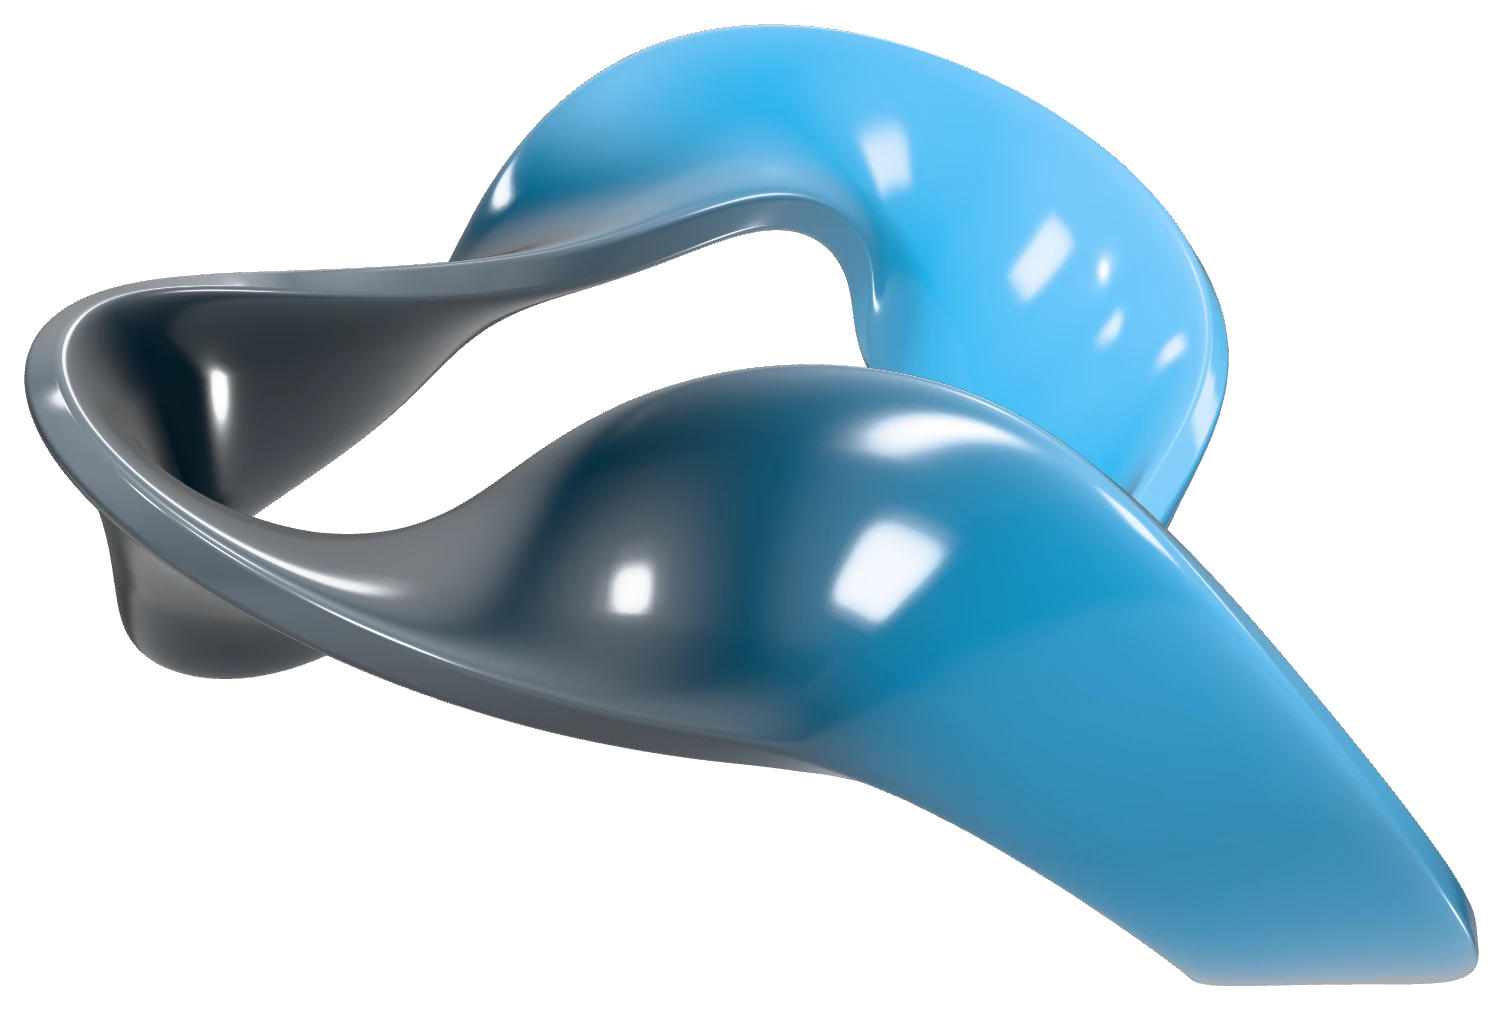
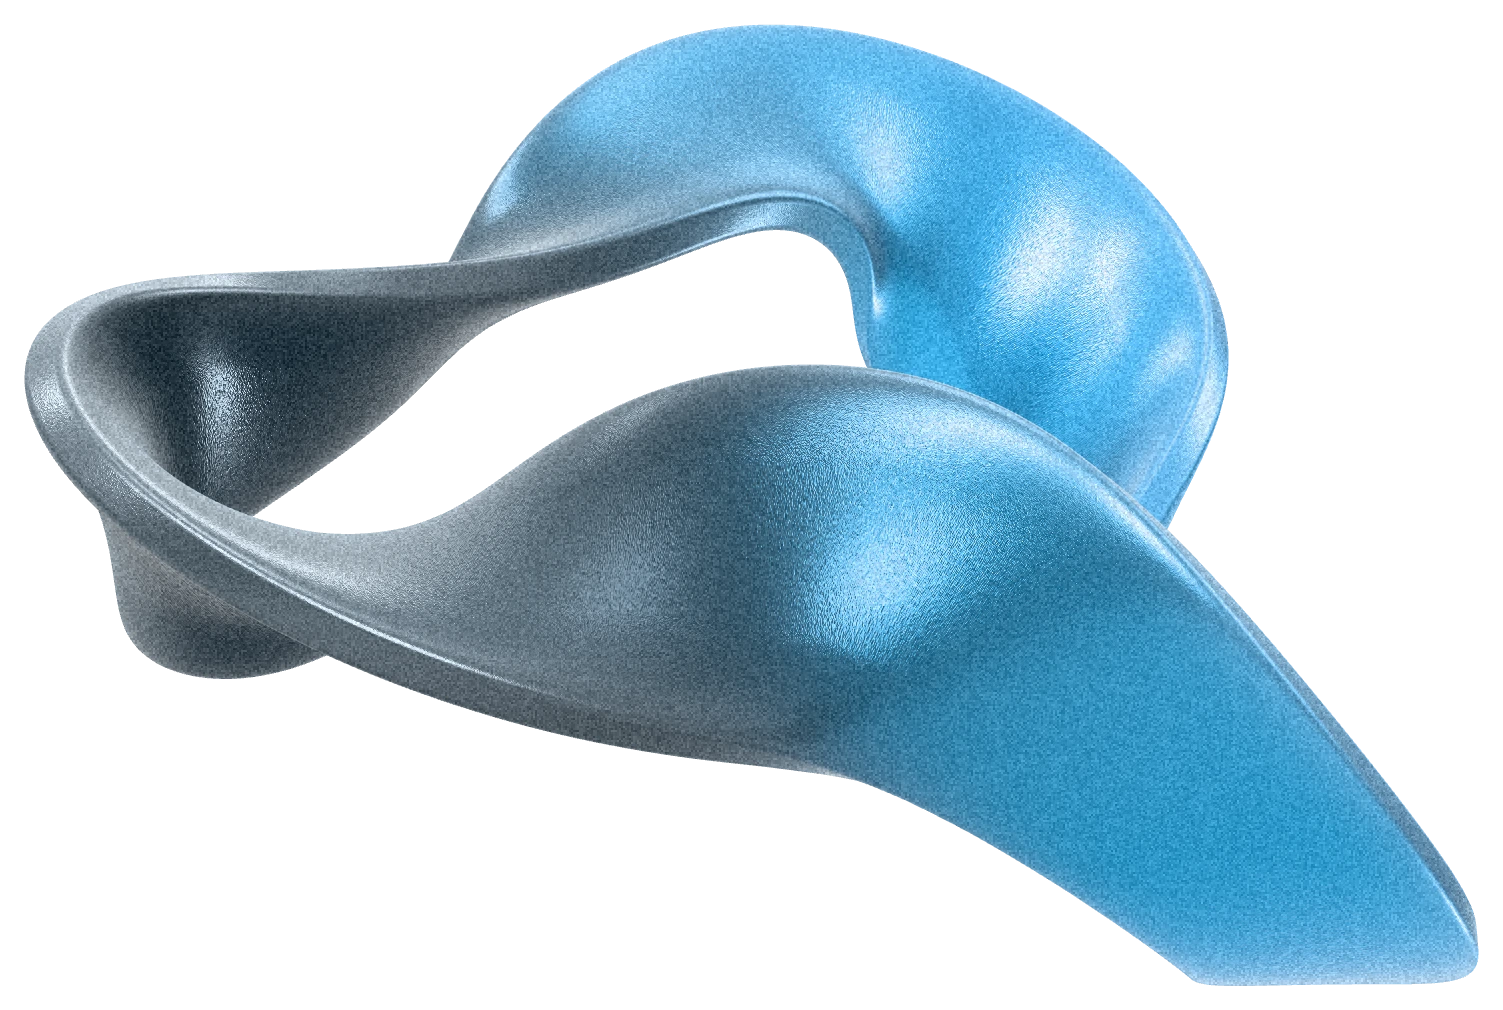
3D ribbons: satin metallic finish with grain instead of gloss
- New default finish in scripts/air-ribbon/render.html: metalness 0.75,
  roughness 0.32, speckle roughness/bump map, 2px film grain on the
  object only; 'finish=gloss' keeps the original look
- Re-rendered hero and closing images (same colours, angles and size)
- Serve the ribbons at quality 90 so compression keeps the grain
- Rename the key-light URL param to 'keylight'

Changed region(s): [[0.0, 0.0307, 1.0, 0.9822], [0.4285, 0.2455, 0.4591, 0.2762]]

diff --git a/scripts/air-ribbon/render.html b/scripts/air-ribbon/render.html
@@ -45,7 +45,7 @@ const pmrem = new THREE.PMREMGenerator(renderer);
 scene.environment = pmrem.fromScene(new RoomEnvironment(), 0.03).texture;
 scene.environmentIntensity = P("env", 1.0);
 
-const key = new THREE.DirectionalLight(0xffffff, P("key", 1.6));
+const key = new THREE.DirectionalLight(0xffffff, P("keylight", 1.6));
 key.position.set(-3, 5, 4);
 scene.add(key);
 const rim = new THREE.DirectionalLight(0xffffff, P("rim", 0.8));
@@ -54,7 +54,7 @@ scene.add(rim);
 
 // Sweep a rounded-rectangle cross-section along a closed curve with a twist.
 function sweep({ curve, twist, width, thick, nu = 900, nv = 72, colorAt }) {
-  const pos = [], col = [], idx = [];
+  const pos = [], col = [], idx = [], uvs = [];
   const T = new THREE.Vector3(), N = new THREE.Vector3(), B = new THREE.Vector3();
   const up = new THREE.Vector3(0, 0, 1);
   const se = (a, n) => Math.sign(a) * Math.pow(Math.abs(a), n);
@@ -80,6 +80,7 @@ function sweep({ curve, twist, width, thick, nu = 900, nv = 72, colorAt }) {
       const edge = Math.abs(Math.cos(v));
       const cc = c.clone().lerp(PEARL, 0.12 * edge * edge);
       col.push(cc.r, cc.g, cc.b);
+      uvs.push(i / nu, j / nv);
     }
   }
   for (let i = 0; i < nu; i++)
@@ -90,6 +91,7 @@ function sweep({ curve, twist, width, thick, nu = 900, nv = 72, colorAt }) {
   const g = new THREE.BufferGeometry();
   g.setAttribute("position", new THREE.Float32BufferAttribute(pos, 3));
   g.setAttribute("color", new THREE.Float32BufferAttribute(col, 3));
+  g.setAttribute("uv", new THREE.Float32BufferAttribute(uvs, 2));
   g.setIndex(idx);
   g.computeVertexNormals();
   return g;
@@ -101,18 +103,58 @@ const grad = (u, phase = 0) => {
   return NAVY.clone().lerp(SKY, s);
 };
 
-const mat = new THREE.MeshPhysicalMaterial({
-  vertexColors: true,
-  roughness: P("rough", 0.22),
-  metalness: 0.0,
-  clearcoat: 1.0,
-  clearcoatRoughness: P("ccr", 0.06),
-  iridescence: P("irid", 0.25),
-  iridescenceIOR: 1.4,
-  sheen: P("sheen", 0.0),
-  sheenColor: new THREE.Color("#cfeaff"),
-  side: THREE.DoubleSide,
-});
+// Fine surface grain (sand-blasted metal): random speckle used as a
+// roughness and bump map. Repeats more along the loop than around the
+// profile so the grain stays roughly square on the surface.
+function grainTexture(size = 1024) {
+  const c = document.createElement("canvas");
+  c.width = c.height = size;
+  const ctx = c.getContext("2d");
+  const img = ctx.createImageData(size, size);
+  for (let i = 0; i < img.data.length; i += 4) {
+    const v = 150 + Math.random() * 105;
+    img.data[i] = img.data[i + 1] = img.data[i + 2] = v;
+    img.data[i + 3] = 255;
+  }
+  ctx.putImageData(img, 0, 0);
+  const t = new THREE.CanvasTexture(c);
+  t.wrapS = t.wrapT = THREE.RepeatWrapping;
+  t.repeat.set(P("grainU", 14), P("grainV", 2));
+  t.anisotropy = 8;
+  return t;
+}
+
+// finish=satin (default): satin metal with fine grain, like Fin's renders.
+// finish=gloss: the original clear-coated ceramic look.
+const finish = q.get("finish") || "satin";
+const grain = grainTexture();
+const mat =
+  finish === "gloss"
+    ? new THREE.MeshPhysicalMaterial({
+        vertexColors: true,
+        roughness: P("rough", 0.22),
+        metalness: 0.0,
+        clearcoat: 1.0,
+        clearcoatRoughness: P("ccr", 0.06),
+        iridescence: P("irid", 0.25),
+        iridescenceIOR: 1.4,
+        sheen: P("sheen", 0.0),
+        sheenColor: new THREE.Color("#cfeaff"),
+        side: THREE.DoubleSide,
+      })
+    : new THREE.MeshPhysicalMaterial({
+        vertexColors: true,
+        metalness: P("metal", 0.6),
+        roughness: P("rough", 0.5),
+        roughnessMap: grain,
+        bumpMap: grain,
+        bumpScale: P("bump", 0.6),
+        clearcoat: P("cc", 0),
+        sheen: P("sheen", 0.35),
+        sheenRoughness: 0.8,
+        sheenColor: new THREE.Color("#d6efff"),
+        side: THREE.DoubleSide,
+      });
 
 const group = new THREE.Group();
 scene.add(group);
@@ -157,10 +199,40 @@ camera.position.set(0, 0, P("dist", 5.2));
 camera.lookAt(0, 0, 0);
 
 renderer.render(scene, camera);
+
+// Film grain, weighted by alpha so only the object gets it.
+const out = document.createElement("canvas");
+out.width = out.height = SIZE;
+const octx = out.getContext("2d");
+octx.drawImage(renderer.domElement, 0, 0);
+const filmGrain = P("film", finish === "gloss" ? 0 : 0.07);
+if (filmGrain > 0) {
+  // Grain specks are `grainPx` square so they survive the image being shown
+  // smaller than it is rendered.
+  const g = Math.max(1, Math.round(P("grainPx", 1)));
+  const px = octx.getImageData(0, 0, SIZE, SIZE);
+  const d = px.data;
+  for (let by = 0; by < SIZE; by += g)
+    for (let bx = 0; bx < SIZE; bx += g) {
+      const n0 = (Math.random() + Math.random() - 1) * 255 * filmGrain;
+      for (let y = by; y < Math.min(by + g, SIZE); y++)
+        for (let x = bx; x < Math.min(bx + g, SIZE); x++) {
+          const i = (y * SIZE + x) * 4;
+          if (d[i + 3] === 0) continue;
+          const n = n0 * (d[i + 3] / 255);
+          d[i] = Math.max(0, Math.min(255, d[i] + n));
+          d[i + 1] = Math.max(0, Math.min(255, d[i + 1] + n));
+          d[i + 2] = Math.max(0, Math.min(255, d[i + 2] + n));
+        }
+    }
+  octx.putImageData(px, 0, 0);
+}
+renderer.domElement.replaceWith(out);
+
 const status = document.getElementById("status");
 status.textContent = "done";
 if (save) {
-  const data = renderer.domElement.toDataURL("image/png");
+  const data = out.toDataURL("image/png");
   fetch(`/save?name=${save}`, { method: "POST", body: data })
     .then((r) => r.text())
     .then((t) => (status.textContent = t));

diff --git a/src/components/landing/site-footer.tsx b/src/components/landing/site-footer.tsx
@@ -19,6 +19,7 @@ export function SiteFooter() {
               width={1503}
               height={1010}
               sizes="(min-width: 768px) 360px, 60vw"
+              quality={90}
               className="pointer-events-none mx-auto my-[-0.18em] w-[min(60vw,360px)] select-none"
             />
             <span className="block text-balance">{below}</span>

diff --git a/next.config.ts b/next.config.ts
@@ -3,6 +3,8 @@ import type { NextConfig } from "next";
 const nextConfig: NextConfig = {
   /* config options here */
   cacheComponents: true,
+  // 90 is used for the grainy 3D renders so compression keeps the texture.
+  images: { qualities: [75, 90] },
   partialPrefetching: true,
   turbopack: {
     rules: {

diff --git a/src/components/landing/hero.tsx b/src/components/landing/hero.tsx
@@ -33,6 +33,7 @@ export function Hero() {
         alt=""
         width={1380}
         height={1424}
+        quality={90}
         loading="eager"
         fetchPriority="high"
         sizes="(min-width: 1024px) 36vw, 80vw"

diff --git a/README.md b/README.md
@@ -41,7 +41,7 @@ The ribbon images are rendered from `scripts/air-ribbon/render.html` (three.js, 
 node scripts/air-ribbon/server.mjs "$PWD/scripts/air-ribbon/out" 4319
 ```
 
-Open `http://localhost:4319/?shape=ribbon&size=1800&dist=6.4&env=0.8&irid=0&rough=0.14&rx=-0.6&ry=-0.5&rz=2.2&tm=neutral&sky=3cc4ff&save=air-ribbon-hero` in a browser. The PNG is saved to the `out` folder; trim it and convert it to WebP into `public/art/`. The closing image uses `rx=-1.15&ry=0.45&rz=0.9`.
+Open `http://localhost:4319/?shape=ribbon&size=1800&dist=6.4&env=1.3&keylight=2.6&metal=0.75&rough=0.32&bump=0.9&film=0.1&grainPx=2&rx=-0.6&ry=-0.5&rz=2.2&tm=neutral&sky=3cc4ff&save=air-ribbon-hero` in a browser. This is the satin, grainy metal finish; add `finish=gloss` for the original glossy version. The PNG is saved to the `out` folder; trim it and convert it to WebP into `public/art/`. The closing image uses `rx=-1.15&ry=0.45&rz=0.9`.
 
 ## Deploy to Vercel
 
